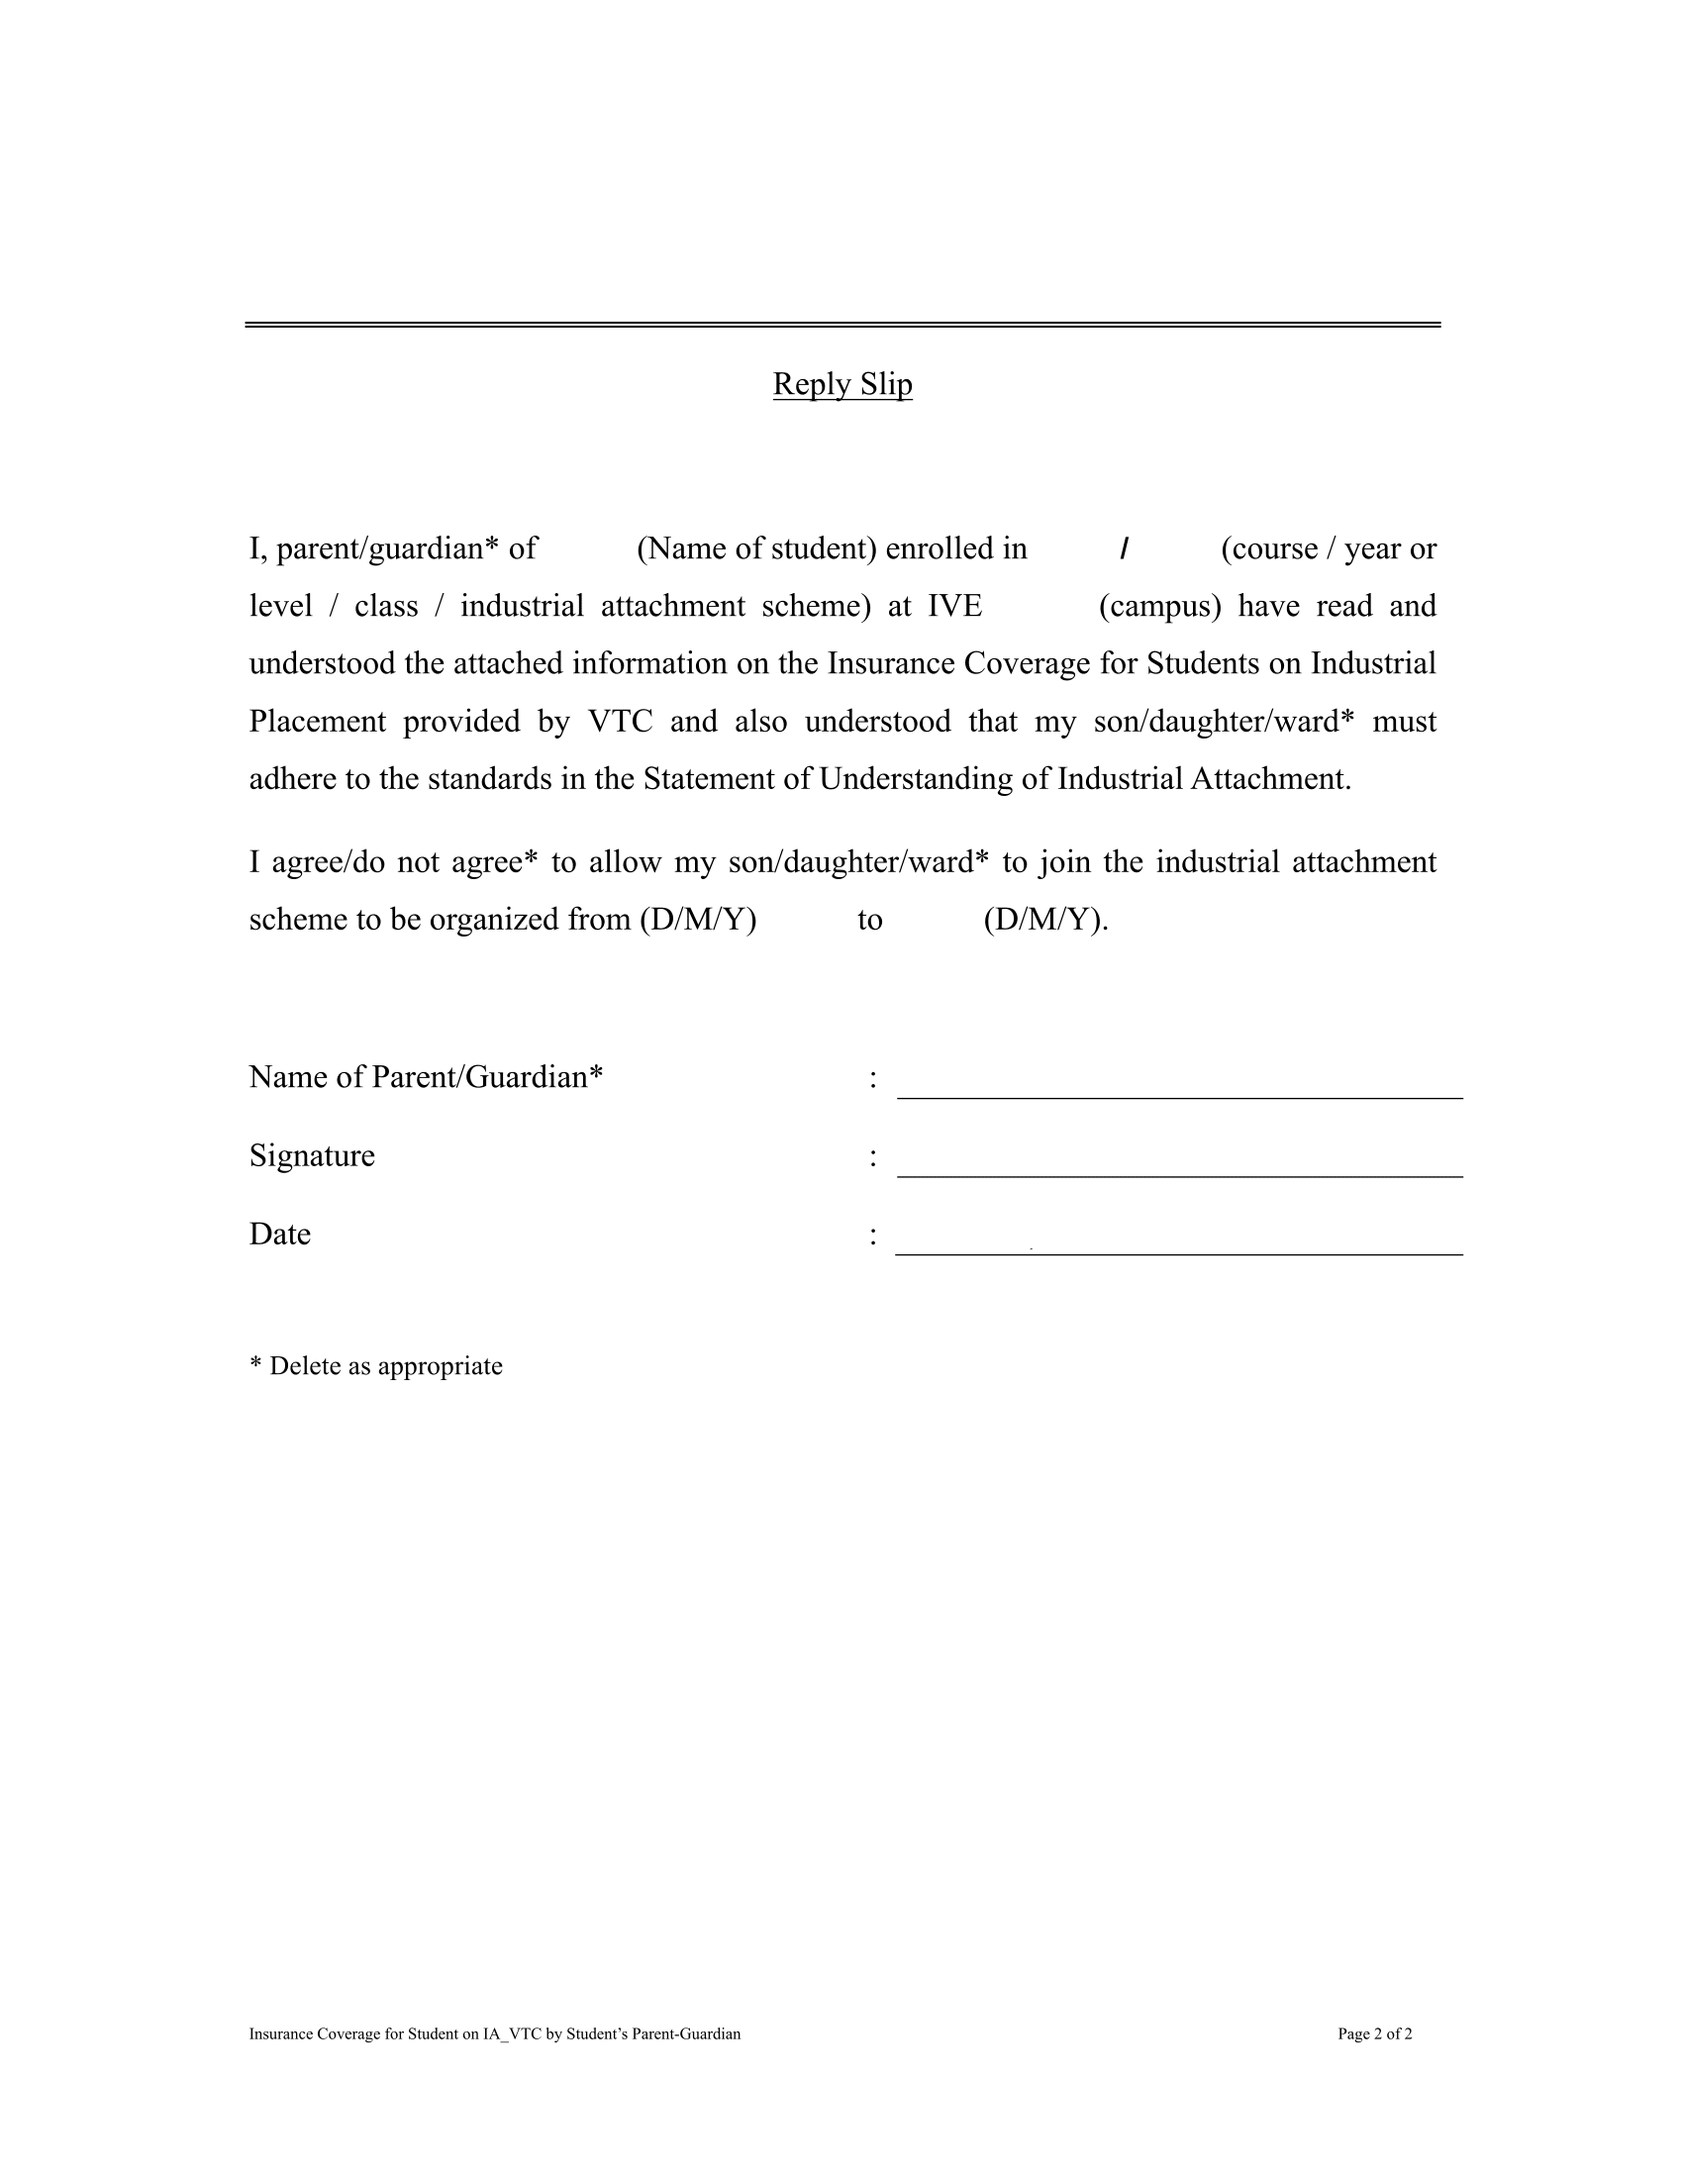
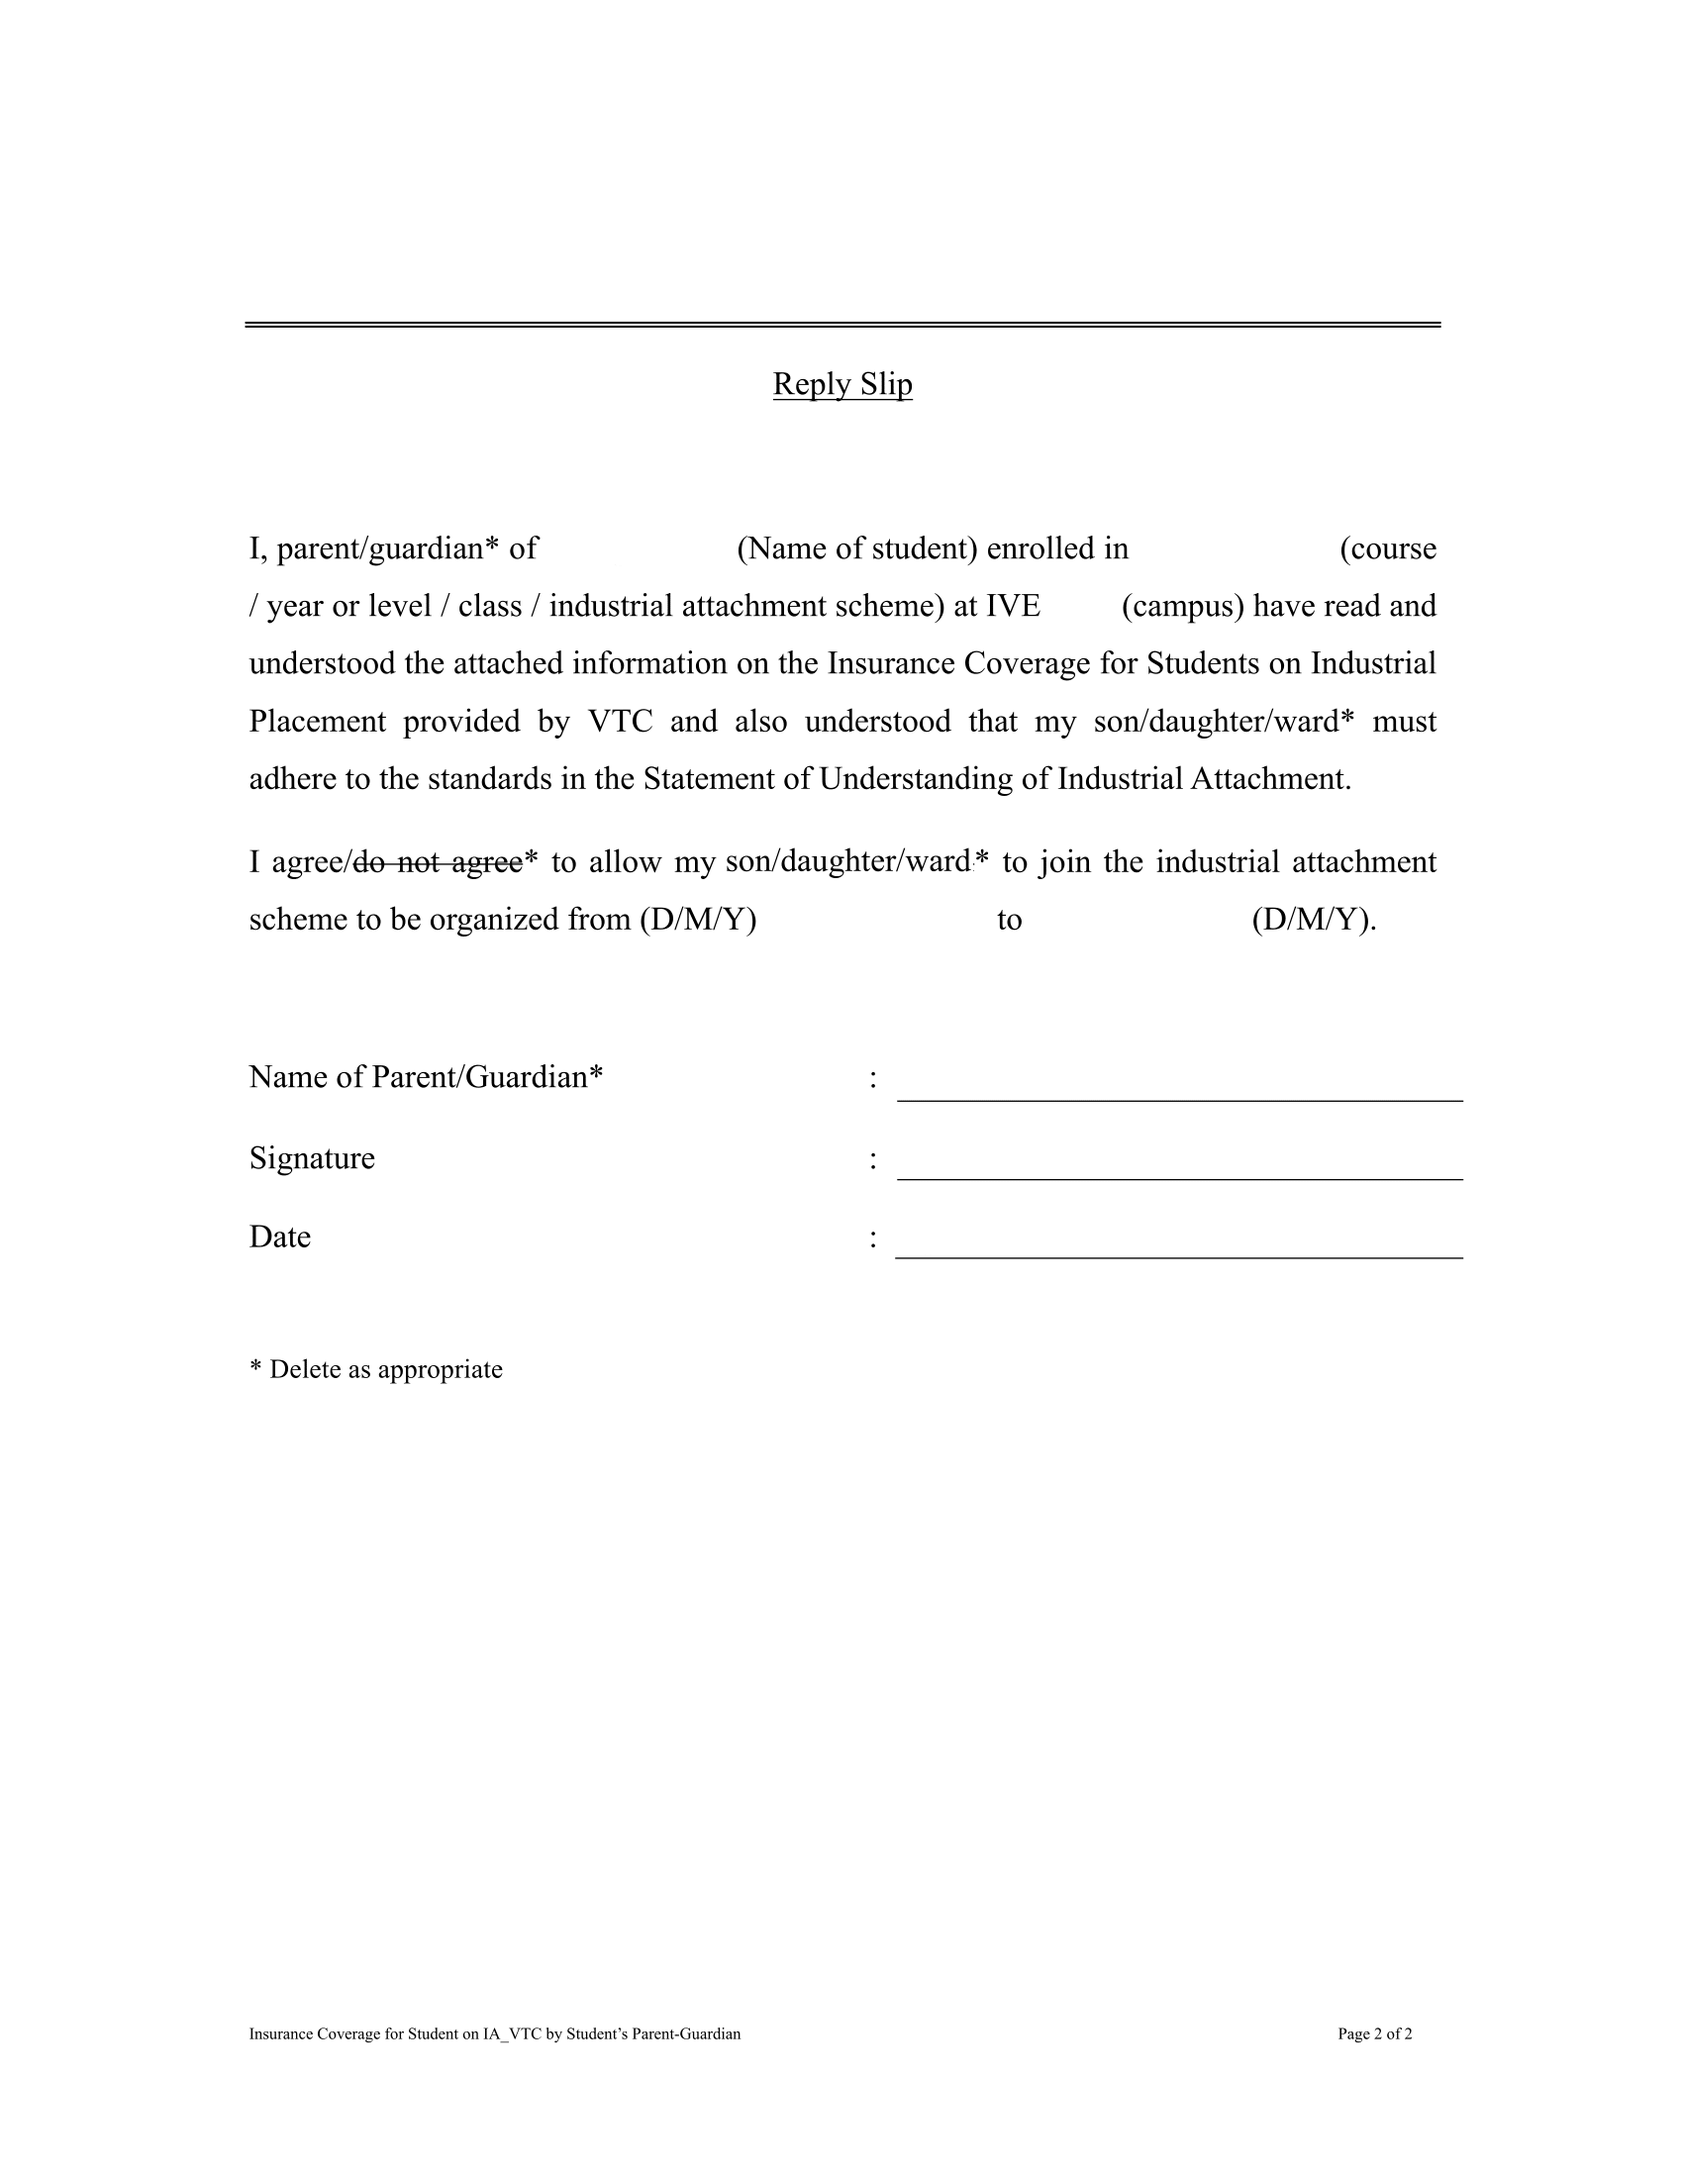
1.1

diff --git a/js/ia.j1Lib.js b/js/ia.j1Lib.js
@@ -129,7 +129,12 @@
 
                 },
                 "2": {
-                    "1000,1240": "${ From from Company }"
+                    "1000,1240": "${ From from Company }",
+                    "560,563": "${ English Name from Personal }",
+                    "1150,563": "${ Programme Code from Personal }/${ Study/Class from Personal }",
+                    "1060,625": "${ Campus from Personal }",
+                    "790,940": "${ From from Company }",
+                    "1060,940": "${ From from Company }",
                 }
             },
             "Monthly Report (Student)": {
@@ -175,7 +180,7 @@
         output.innerHTML = Object.keys(Template).map(function(i) {
             Object.keys(Template[i]).forEach(function(v) {
 
-                if (!debug || i == "Evaluation Report (Student)" && v == "1") {
+                if (!debug || i == "Insurance Coverage for Industrial Attachment Students" && v == "2") {
                     edit("IA Document Template/" + i + "/" + i + "-" + v + ".png", Template[i][v]);
                 }
 
@@ -240,7 +245,7 @@
     };
 
     var replace = function(str) {
-        return str.replace(/\${.(.*).from.(.*).}/g, function(a, b, c) {
+        return str.replace(/\${\ (.*?) from (.*?)\ }/g, function(a, b, c) {
             return data[c][b] || "";
         });
     };
